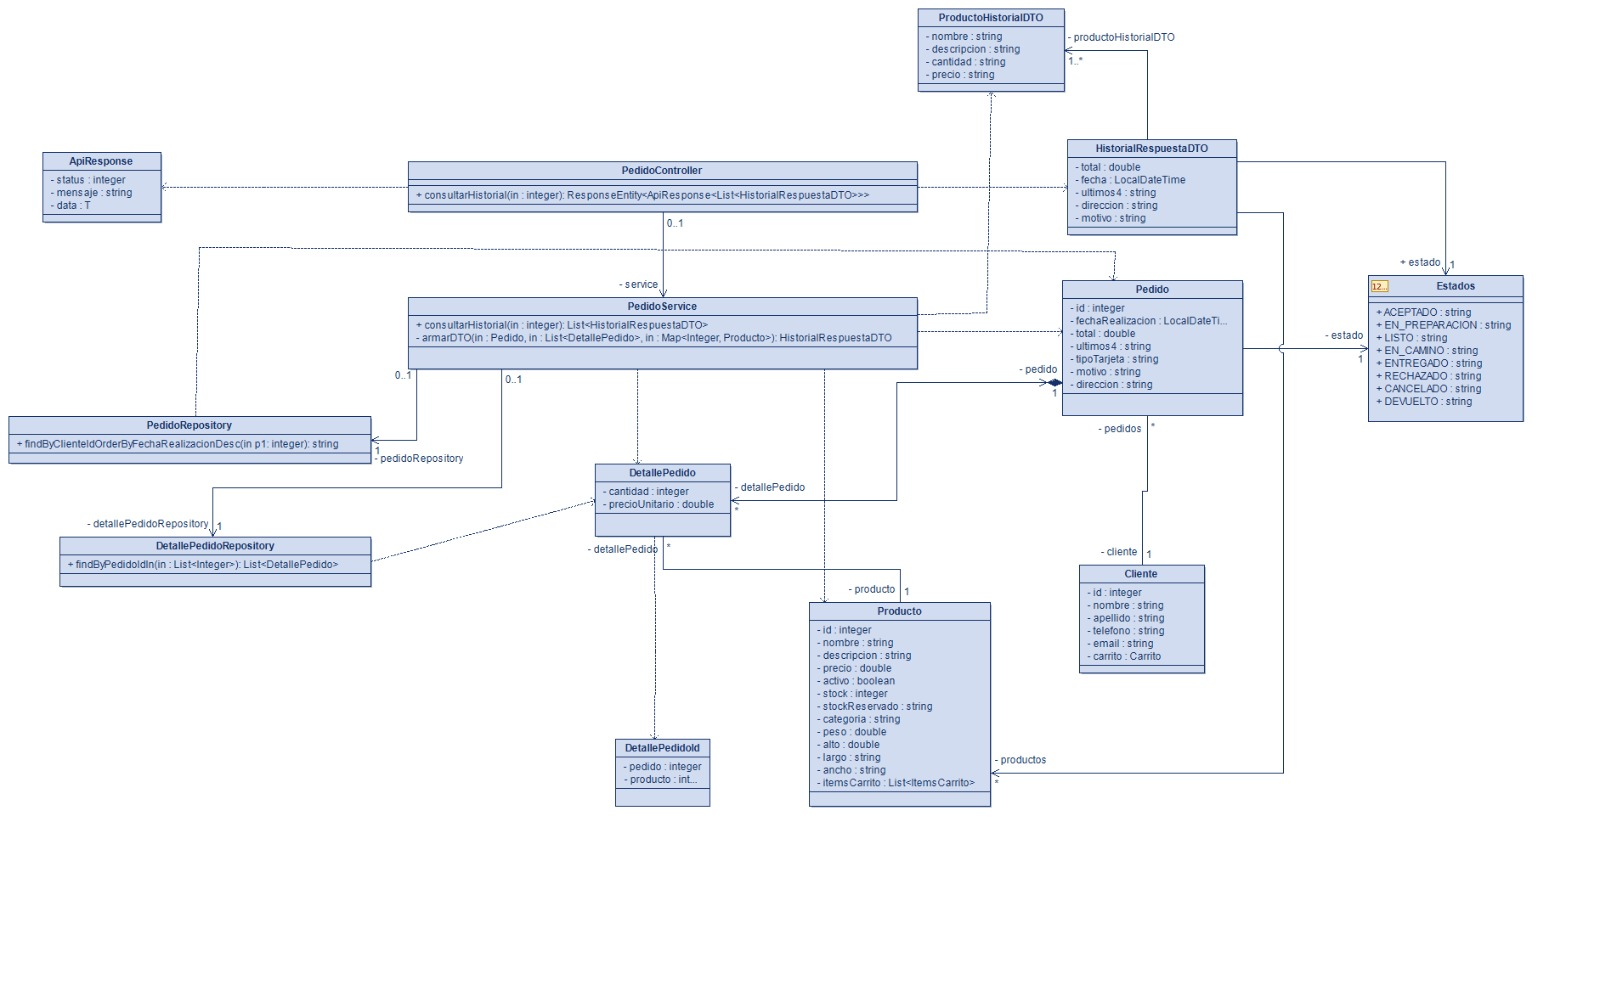
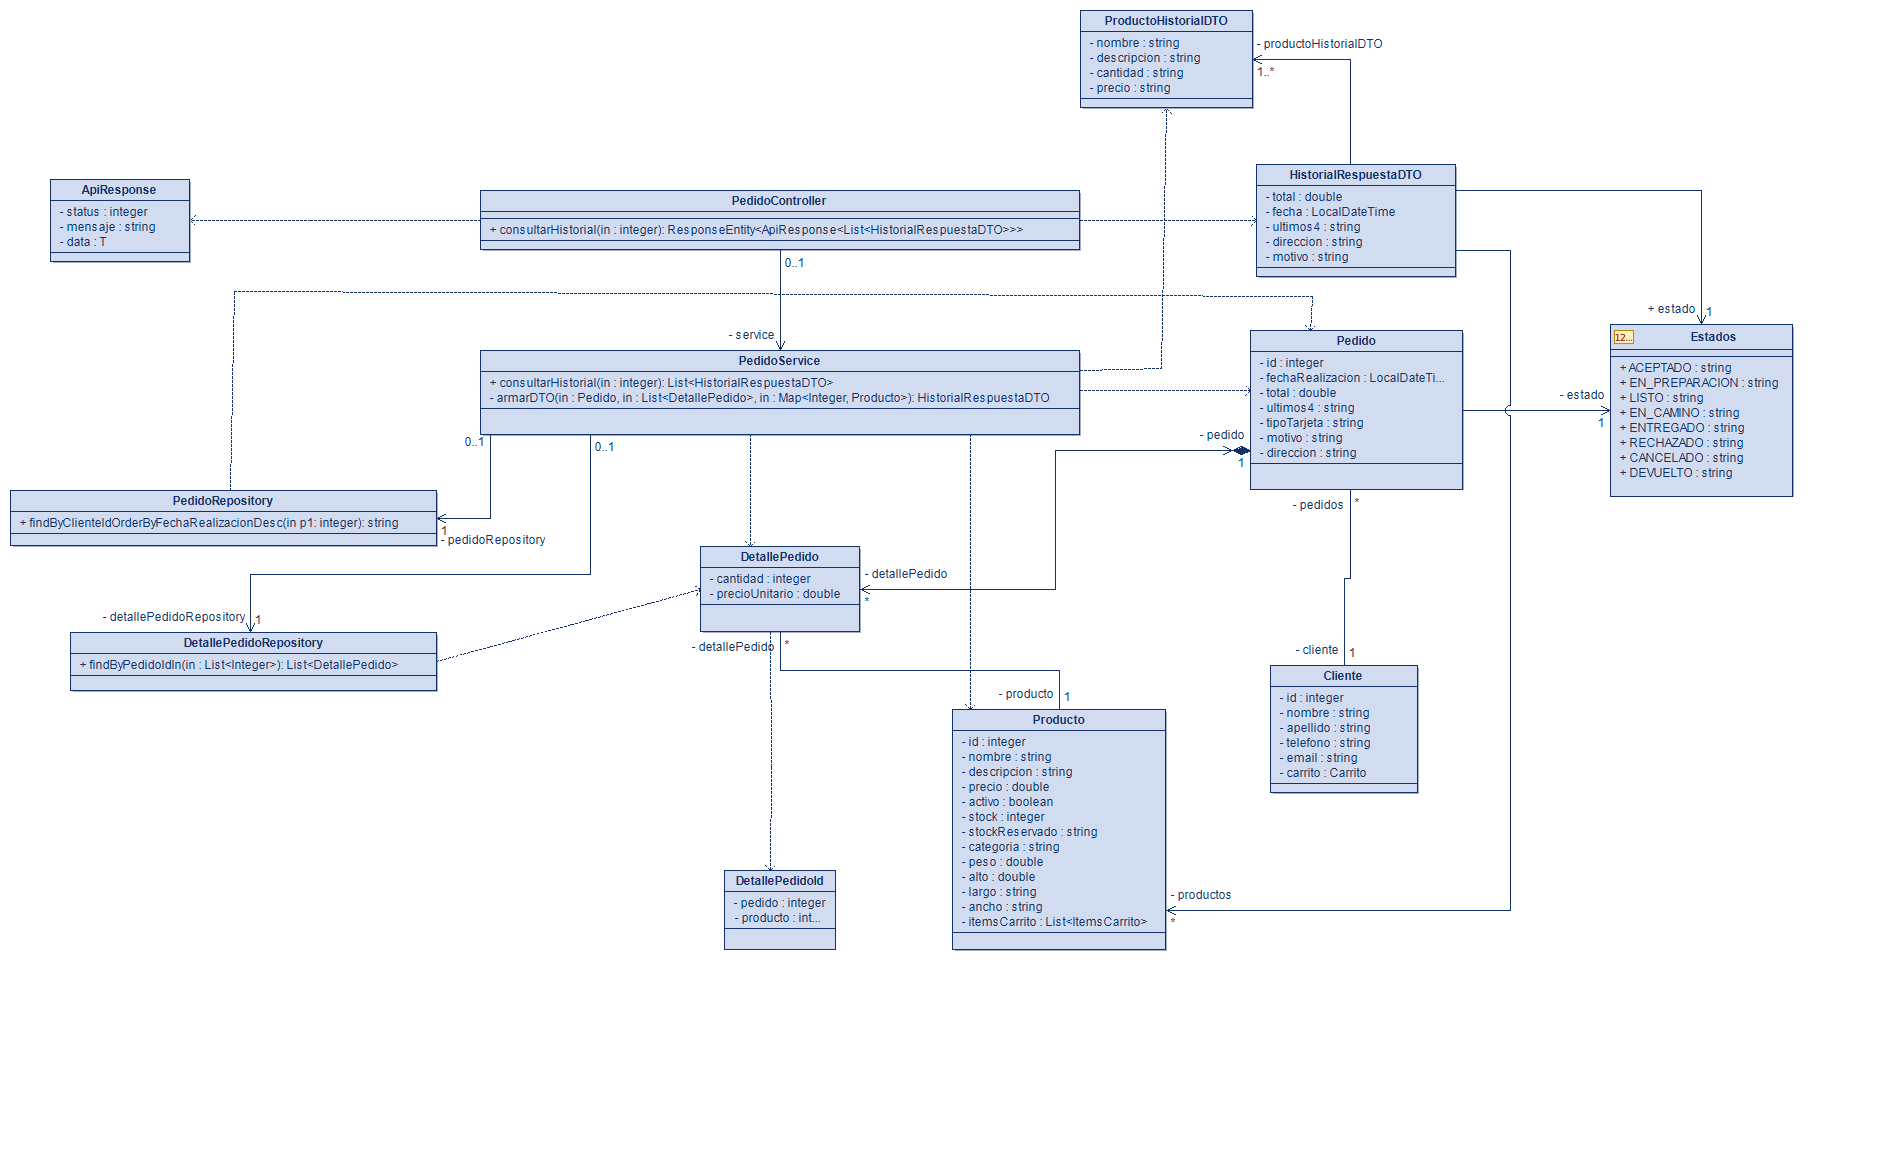
weq

diff --git a/src/main/java/com/aydsii/demo/controller/PedidoController.java b/src/main/java/com/aydsii/demo/controller/PedidoController.java
@@ -23,7 +23,7 @@ public class PedidoController {
         this.service = service;
     }
 
-    @GetMapping("/historial")
+    @GetMapping()
     @Operation(
         summary = "Consultar historial de pedidos",
         description = "Devuelve los pedidos de un cliente con sus datos y productos"
